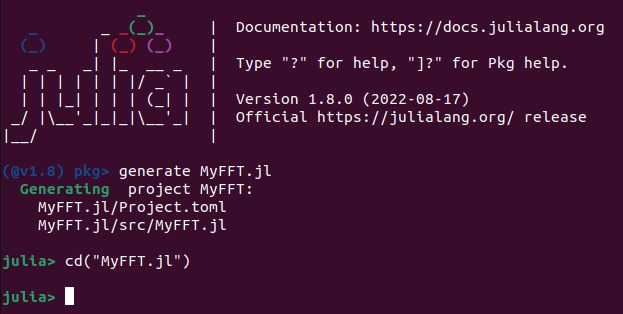
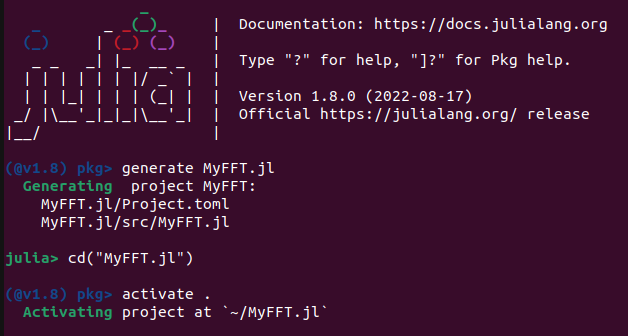
improving README.md

Changed region(s): [[0.0, 0.0, 0.4575, 1.0], [0.3355, 0.0573, 0.9759, 0.4586], [0.366, 0.8885, 0.5185, 0.9459]]

diff --git a/README.md b/README.md
@@ -8,9 +8,6 @@ _A package for improving the practice of **platform-aware programming** in Julia
 
 It helps HPC package developers write code for different versions of computationally intensive functions (kernels) according to different assumptions about the features of the execution platform.
 
-
-> _**NOTE**: This package is in the experimental stage. Although virtually all of the key features are implemented, more comprehensive testing is still needed, in addition to implementing some features. Interested users are invited to help us improve its implementation by making suggestions and reporting their experiences and found issues._
-
 # What is platform-aware programming ?
 
 We define platform-aware programming as the practice of coding computationally intensive functions, called _kernels_, using the most appropriate abstractions and programming interfaces, as well as performance tuning techniques, to take better advantage of the features of the target execution platform. This is a well-known practice in programming for HPC applications.
@@ -28,18 +25,17 @@ We assume that **_package users_** are only interested in using package operatio
 
 We present a simple example that readers may reproduce to test _PlatformAware.jl_ features. 
 
-Consider the problem of performing a convolution operation by means of a Fast Fourier Transform (FFT). For that, the user implements an ```fftconv``` function that uses a ```fft``` function offerered by a package called _MyFFT.jl_:
+Cconsider the problem of performing a convolution operation using a Fast Fourier Transform (FFT). To do this, the user can implement a ```fftconv``` function that uses a ```fft``` function offered by a user-defined package called _MyFFT.jl_, capable of performing the FFT on an accelerator (e.g., GPU) if it is present.
 
 ```julia
 using MyFFT
 fftconv(X,K) = fft(X) .* conj.(fft(K)) 
 ```
+This tutorial shows how to create _MyFFT.jl_, demonstrating the basics of how to install _PlatformAware.jl_ and how to use it to create a platform-aware package.
 
-### Creating the MyFFT.jl project
+### Creating the _MyFFT.jl_ project
 
-Let's follow a sequence of steps to implement a version of _MyFFT.jl_ that relies on _PlatformAware.jl_ to make it possible the ```fft``` function to take advantage of a GPU device whether it is the present in the underlying execution platform.
-
-First, in the Julia REPL, enter the ```pkg``` environment by typing the "]" symbol. Then, like in the screenshot below, run ```generate MyFFT.jl``` to create a new project called _MyFFT.jl_ and, after exiting the ```pkg``` environment by typing the backscape key 🔙, run ```cd("MyFFT.jl")``` to move to the directory of the created project.
+In the Julia REPL, as shown in the screenshot below, run ```] generate MyFFT.jl``` to create a new project called _MyFFT.jl_, run ```🔙cd("MyFFT.jl")``` to move to the directory of the created project, and ```] activate .``` to enable the current project (_MyFFT.jl_) in the current Julia REPL session.
 
 ![f1](docs/src/images/f1.png)
 
@@ -47,14 +43,9 @@ These operations create a standard _"hello world"_ project, with the contents of
 
 ![f2](docs/src/images/f2.png)
 
-### Installing PlatformAware.jl
+### Installing _PlatformAware.jl_
 
-It is necessary to install the _PlatormAware.jl_ packages by executing the following command in the Julia REPL:
-
-```julia 
-import Pkg; Pkg.add("PlatormAware")
-```
-Alternatively, in the ```pkg``` environment:
+Before coding the platform-aware package, it is necessary to add _PlatormAware.jl_ as a dependency of _MyFFT.jl_ by running the following command in the Julia REPL:
 
 ```julia
 ] add PlatformAware
@@ -63,9 +54,13 @@ Now, load the _PlatfomAware.jl_ package (```using PlatformAware``` or ```import 
 
 ![f3](docs/src/images/f3.png)
 
-It informs that the _Platform.toml_, which describes the features of the underlying platform, does not exist. Also, it explains how the platform description file can be generated in the current folder, by executing ```PlatformAware.setup()```. Despite being automatically generated, _Platform.toml_ is written in a human-editable format. So, it may be modified by users in order to add non detected platform features or ignore detected features.
 
-### Sketching the MyFFT.jl code
+_Platform.toml_ is the _platform description file_, containing a set of key-value pairs, each describing a feature of the underlying platform. It must be created by the user running ```PlatformWare.setup()```, which performs a sequence of feature detection operations on the platform. 
+
+_Platform.toml_ is written in a human-editable format. Therefore, it can be modified by users to add undetected platform features or ignore detected features.
+
+
+### Sketching the _MyFFT.jl_ code
 
 In order to implement the _fft_ kernel function, we edit  the _src/MyFFT.jl_ file. First, we sketch the code of the _fft_ kernel methods:
 
@@ -93,23 +88,35 @@ module MyFFT
 end
 ```
 
-The sequence of ```@platorm parameter``` macro declarations specify the set of platform parameters that will be used by the following kernel method declarations, i.e.,  the assumptions that will be made to distinguish them.  You may look at [this table](https://docs.google.com/spreadsheets/d/1n-c4b7RxUduaKV43XrTnt54w-SR1AXgVNI7dN2OkEUc/edit?usp=sharing) to see a list of all supported _**platform parameters**_. By default, they are all included. In the case of ```fft```,  kernel methods are distinguished using only two parameters: ```accelerator_count``` and ```accelerator_api```. They denote, respectively, assumptions regarding the number of accelerator devices and the native API they support.
+The sequence of ```@platorm parameter``` macro declarations specifies the set of platform parameters that will be used by subsequent kernel method declarations, that is, the assumptions that will be made to distinguish them. You can refer to [this table](https://docs.google.com/spreadsheets/d/1n-c4b7RxUduaKV43XrTnt54w-SR1AXgVNI7dN2OkEUc/edit?usp=sharing) for a list of all supported _**platform parameters**_. By default, they are all included. In the case of ```fft```, the kernel methods are differentiated using only two parameters: ```accelerator_count``` and ```accelerator_api```. They denote, respectively, assumptions about the number of accelerator devices and the native API they support.
 
-The ```@platorm default``` macro declares the _default kernel method_, which will be called case neither of assumptions of other kernel methods declared using ```@platform aware``` macro calls are valid. The default kernel must be unique to avoid ambiguity. 
+The ```@platorm default``` macro declares the _default kernel method_, which will be called if none of the assumptions of other kernel methods declared using ```@platform aware``` macro calls are valid. The default kernel must be unique to avoid ambiguity. 
 
-Finally, kernels for accelerators that support OpenCL and CUDA APIs are declared using ```@platform aware``` macro. The list of platform parameters are declared just before the regular parameters, like ```X```, enclosed in brackets. Their types denote assumptions. For instance, ```@atleast 1``` denotes a quantifier representing one or more units of a resource, whereas ```@api CUDA``` and ```@api OpenCL``` denote qualifier types that make reference to CUDA and OpenCL APIs.
+Finally, the kernels for accelerators that support OpenCL and CUDA APIs are declared using the macro ```@platform aware```. The list of platform parameters is declared just before the regular parameters, such as ```X```, in braces. Their types denote assumptions. For example, ```@atleast 1``` denotes a quantifier representing one or more units of a resource, while``` @api CUDA``` and ```@api OpenCL``` denote types of qualifiers that refer to the CUDA and OpenCL APIs.
 
-### Alternative dependencies
+The programmer must be careful not to declare kernel methods with overlapping assumptions in order to avoid ambiguities. 
 
-Before to add the code of the kernels, we add the code of dependencies. It can be done directly by the following code, just after ```using PlatformAware```:
+### Other dependencies
+
+Before adding the code for the kernels, add the code to load their dependencies. This can be done directly by adding the following code to the _src/MyFFT.jl_ file, right after ```import Platformatware```:
 
 ```julia
 import CUDA
 import OpenCL
+import CLFFT
 import FFTW
 ```
 
-However, we can take advantage of platform-aware features to load dependencies selectively in order to accelerate the loading of the _MyFFT.jl_ package. For that, we declare a kernel function called ```which_api```, declared just after the sequence of ```@platform parameter``` declarations:
+Also, you should add _CUDA.jl_, _OpenCL.jl_, _CLFFT.jl_, and _FFFT.jl_ as dependencies of _MyFFT.jl_. To do this, execute the following commands in the Julia REPL after entering the ```pkg``` mode (by typing ```]```):
+
+```julia
+add CUDA
+add OpenCL
+add CLFFT
+add FFTW
+```
+
+As a performance optimization, we can take advantage of platform-aware features to selectively load dependencies, speeding up the loading of _MyFFT.jl_. To do this, we first declare a kernel function called ```which_api``` in _src/MyFFT.jl_, right after the ```@platform parameter``` declaration:
 
 ```julia
 @platform default which_api() = :fftw
@@ -117,7 +124,7 @@ However, we can take advantage of platform-aware features to load dependencies s
 @platform aware which_api({accelerator_api::(@api OpenCL)}) = :cufft
 ```
 
-Then, we write code to selective dependency loading:
+Next, we add the code for selective dependency loading:
 
 ```julia
 api = which_api()
@@ -125,32 +132,33 @@ if (api == :cufft)
     import CUDA
 elseif (api == :clfft) 
     import OpenCL
+    import CLFFT
 else # api == :fftw 
     import FFTW
 end
 ```
 
-Finally, we present the complete code of _MyFFT.jl_, by implementing the kernel methods:
+Finally, we present the complete code for _src/MyFFT.jl_, with the implementation of the kernel methods:
 
 ```julia
-
 module MyFFT
 
     import PlatformAware
 
     @platform parameter clear
+    @platform parameter accelerator_count
     @platform parameter accelerator_api
 
     @platform default which_api() = :fftw
-    @platform aware which_api({accelerator_api::(@api CUDA)}) = :clfft
-    @platform aware which_api({accelerator_api::(@api OpenCL)}) = :cufft
+    @platform aware which_api({accelerator_count::(@atleast 1), accelerator_api::(@api CUDA)}) = :clfft
+    @platform aware which_api({accelerator_count::(@atleast 1), accelerator_api::(@api OpenCL)}) = :cufft
 
-    api = which_api
+    api = which_api()
     if (api == :cufft) 
         import CUDA; const cufft = CUDA.FFT
     elseif (api == :clfft) 
         import OpenCL; const cl = OpenCL
-	import CLFFF; const clfft = CLFFT
+        import CLFFT; const clfft = CLFFT
     else # api == :fftw 
         import FFTW; const fftw = FFTW
     end
@@ -159,7 +167,7 @@ module MyFFT
     @platform default fft(X) = fftw.fft(X)
 
     # OpenCL kernel
-    @platform aware function fft({accelerator_api::(@api OpenCL)}, X)
+    @platform aware function fft({accelerator_count::(@atleast 1), accelerator_api::(@api OpenCL)}, X)
         _, ctx, queue = cl.create_compute_context()
         bufX = cl.Buffer(Complex64, ctx, :copy, hostbuf=X)
         p = clfft.Plan(Complex64, ctx, size(X))
@@ -171,7 +179,7 @@ module MyFFT
     end
 
     # CUDA kernel
-    @platform aware fft({accelerator_api::(@api CUDA)},X) = cufft.fft(X)
+    @platform aware fft({accelerator_count::(@atleast 1), accelerator_api::(@api CUDA)},X) = cufft.fft(X)
 
     export fft
 
@@ -179,11 +187,11 @@ end # module MyFFT
 
 ```
 
-### Guideline
+### A general guideline
 
-The following is a general guideline for package developers to use _PlatformWare.jl_.
+Therefore, we suggest the following general guideline for package developers who want to take advantage of _PlatformWare.jl_.
 
-1. Identify the _kernel functions_, that is, the functions with high computational requirements in your package, which are the natural candidates to exploit parallel computing or acceleration resources, or both.
+1. Identify the _kernel functions_, that is, the functions with high computational requirements in your package, which are the natural candidates to exploit parallel computing, acceleration resources, or both.
 
 2. Provide a default (fallback) method for each kernel function, using the ```@platform default``` macro.
 
